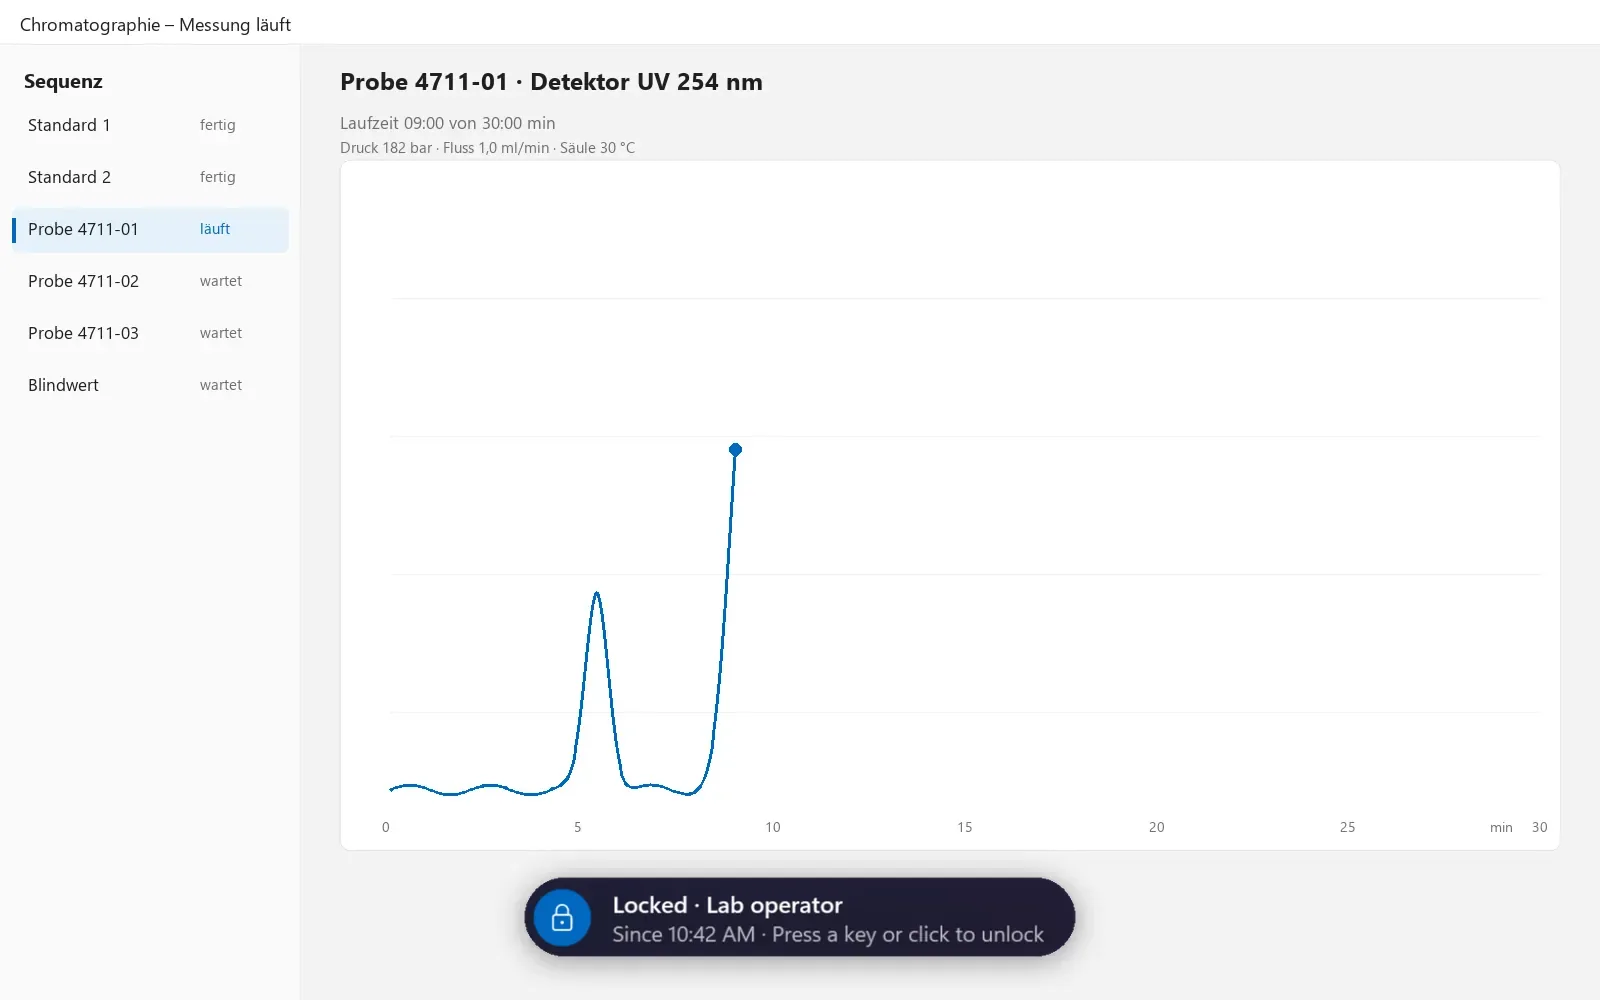
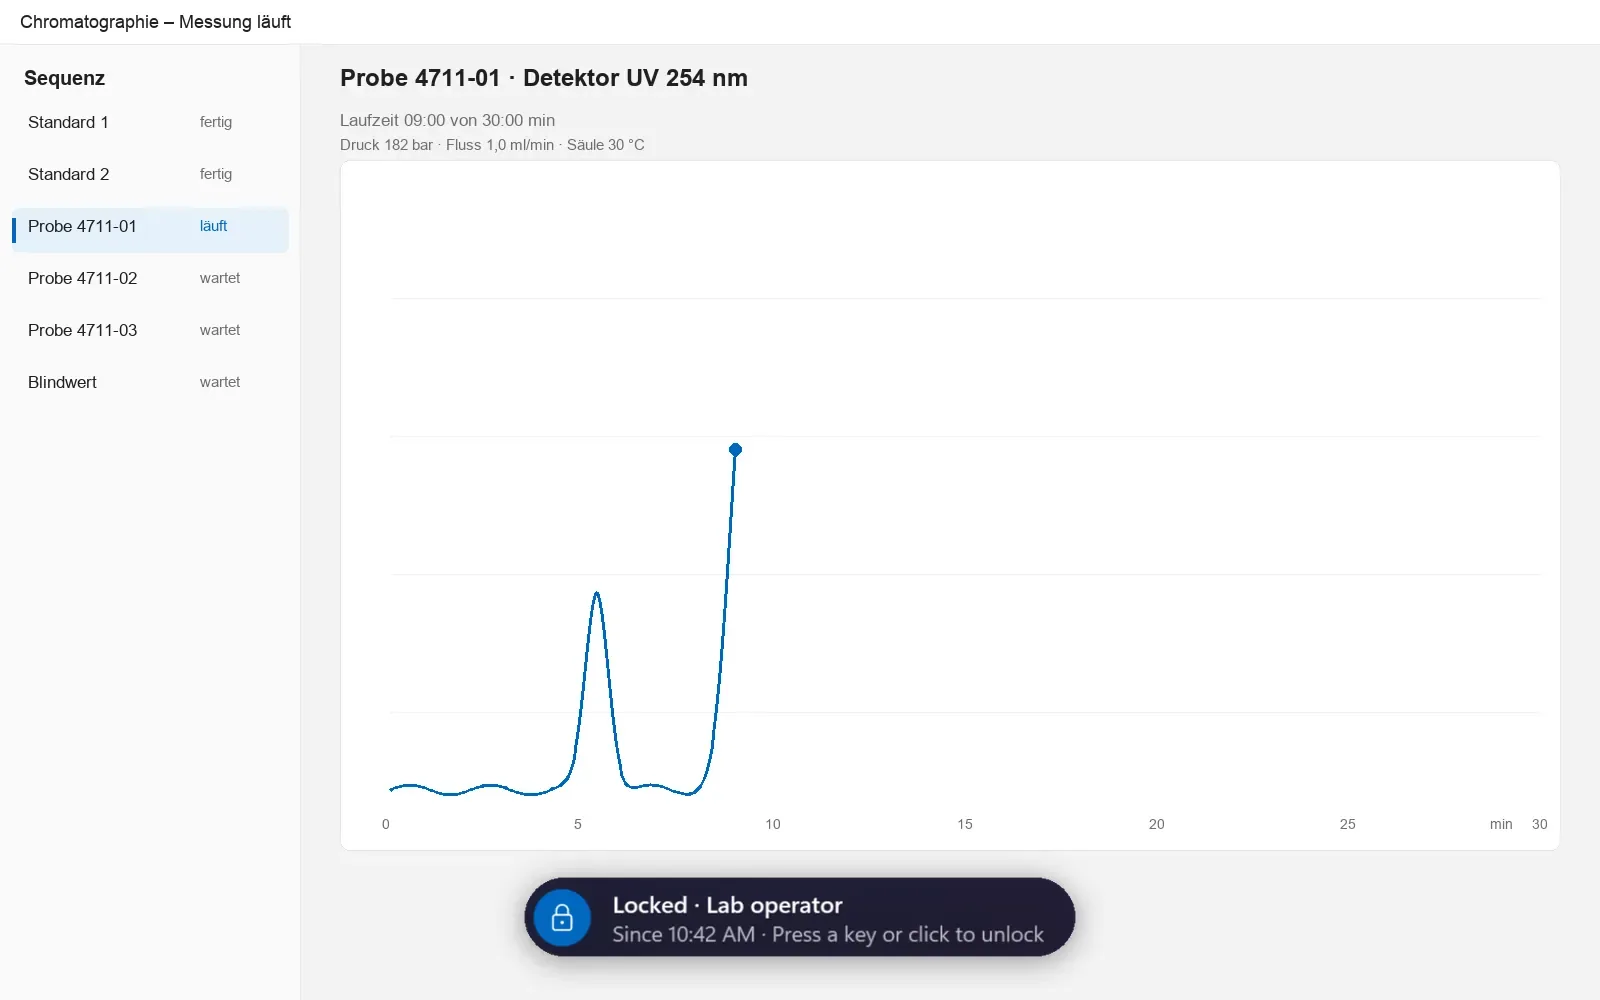
Review: Vitrine-Demo ohne Microsoft-Entsperren, Alt-Text und Bildunterschrift auch englisch

diff --git a/src/lib/products.ts b/src/lib/products.ts
@@ -10,7 +10,7 @@ export interface Media {
   logo: string | null;
   colors: [string, string] | null;
   banner: (ImageSet & { alt: string; altEn: string | null }) | null;
-  demo: { src: string; still: string; width: number; height: number; alt: string; caption: string | null } | null;
+  demo: { src: string; still: string; width: number; height: number; alt: string; caption: string | null; en?: { alt: string; caption: string | null } | null } | null;
   screenshots: Shot[];
   galleryNote: string | null;
   galleryNoteEn?: string | null;

diff --git a/scripts/make-vitrine-demo.py b/scripts/make-vitrine-demo.py
@@ -3,7 +3,8 @@
 #   python scripts/make-vitrine-demo.py <vitrine-repo>
 #
 # Die Vitrine-Teile sind echte Bildschirmfotos aus <vitrine-repo>/docs/assets/screenshots (Sperrleiste aus
-# lock-light.png, Entsperr-Dialog unlock-entra-light.png). Nur der Hintergrund ist gezeichnet: eine neutrale,
+# lock-light.png, Entsperr-Dialog unlock-light.png – Kennwort und Windows Hello wie in den Release-Paketen; die
+# Microsoft-Anmeldung am Sperrbildschirm gibt es dort nicht, weil der Windows-Kontobroker fehlt). Nur der Hintergrund ist gezeichnet: eine neutrale,
 # erfundene Messsoftware, die zeigt, wofür Vitrine da ist – das Programm bleibt unter der Sperre sichtbar und läuft
 # weiter. Ablauf: gesperrt (Kurve läuft) › Klick öffnet den Entsperr-Dialog › entsperrt.
 import math
@@ -17,8 +18,10 @@ shots = os.path.join(repo, 'docs', 'assets', 'screenshots')
 out = os.path.join(os.path.dirname(__file__), 'media', 'vitrine-demo.webp')
 
 W, H = 1600, 1000
-FONT = 'C:/Windows/Fonts/segoeui.ttf' if os.name == 'nt' else '/usr/share/fonts/truetype/dejavu/DejaVuSans.ttf'
-FONT_B = 'C:/Windows/Fonts/segoeuib.ttf' if os.name == 'nt' else '/usr/share/fonts/truetype/dejavu/DejaVuSans-Bold.ttf'
+_FONTS = [('C:/Windows/Fonts/segoeui.ttf', 'C:/Windows/Fonts/segoeuib.ttf'),
+          ('/System/Library/Fonts/Supplemental/Arial.ttf', '/System/Library/Fonts/Supplemental/Arial Bold.ttf'),
+          ('/usr/share/fonts/truetype/dejavu/DejaVuSans.ttf', '/usr/share/fonts/truetype/dejavu/DejaVuSans-Bold.ttf')]
+FONT, FONT_B = next((r, b) for r, b in _FONTS if os.path.exists(r))
 f = lambda s, b=False: ImageFont.truetype(FONT_B if b else FONT, s)
 
 INK, MUTED, LINE, ACCENT = (32, 32, 32), (110, 110, 110), (228, 228, 228), (0, 103, 192)
@@ -113,13 +116,13 @@ def locked(progress, with_dialog=False):
     if with_dialog:
         dim = Image.new('RGBA', im.size, (0, 0, 0, 60))
         im.alpha_composite(dim)
-        dlg = Image.open(os.path.join(shots, 'unlock-entra-light.png')).convert('RGBA')
+        dlg = Image.open(os.path.join(shots, 'unlock-light.png')).convert('RGBA')
         k = 760 / dlg.height
         dlg = dlg.resize((int(dlg.width * k), int(dlg.height * k)), Image.LANCZOS)
         dx, dy = (W - dlg.width) // 2, (H - dlg.height) // 2 - 20
         # Die Karte des Dialogs ist im Bildschirmfoto halbdurchsichtig (Acryl): undurchsichtig hinterlegen
         card = ImageDraw.Draw(im)
-        card.rounded_rectangle([dx + int(84 * k), dy + int(84 * k), dx + int(914 * k), dy + int(946 * k)], int(30 * k), fill=(249, 249, 249, 255))
+        card.rounded_rectangle([dx + int(84 * k), dy + int(84 * k), dx + int(916 * k), dy + int(1032 * k)], int(30 * k), fill=(249, 249, 249, 255))
         im.alpha_composite(dlg, (dx, dy))
     return im.convert('RGB')
 
